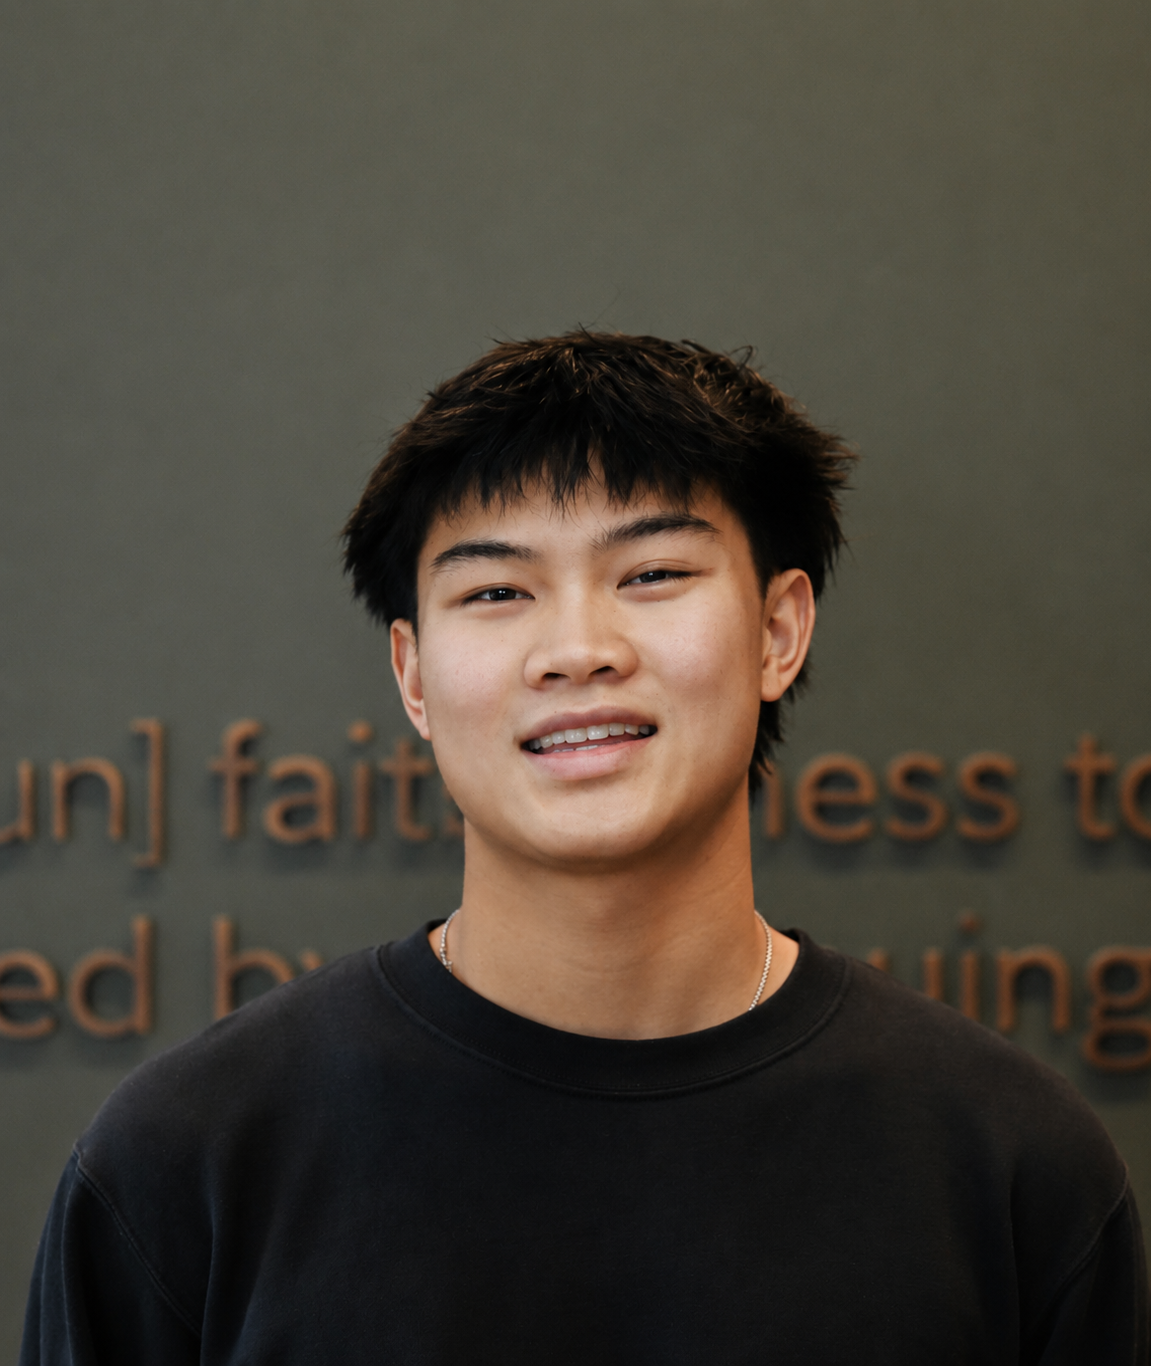
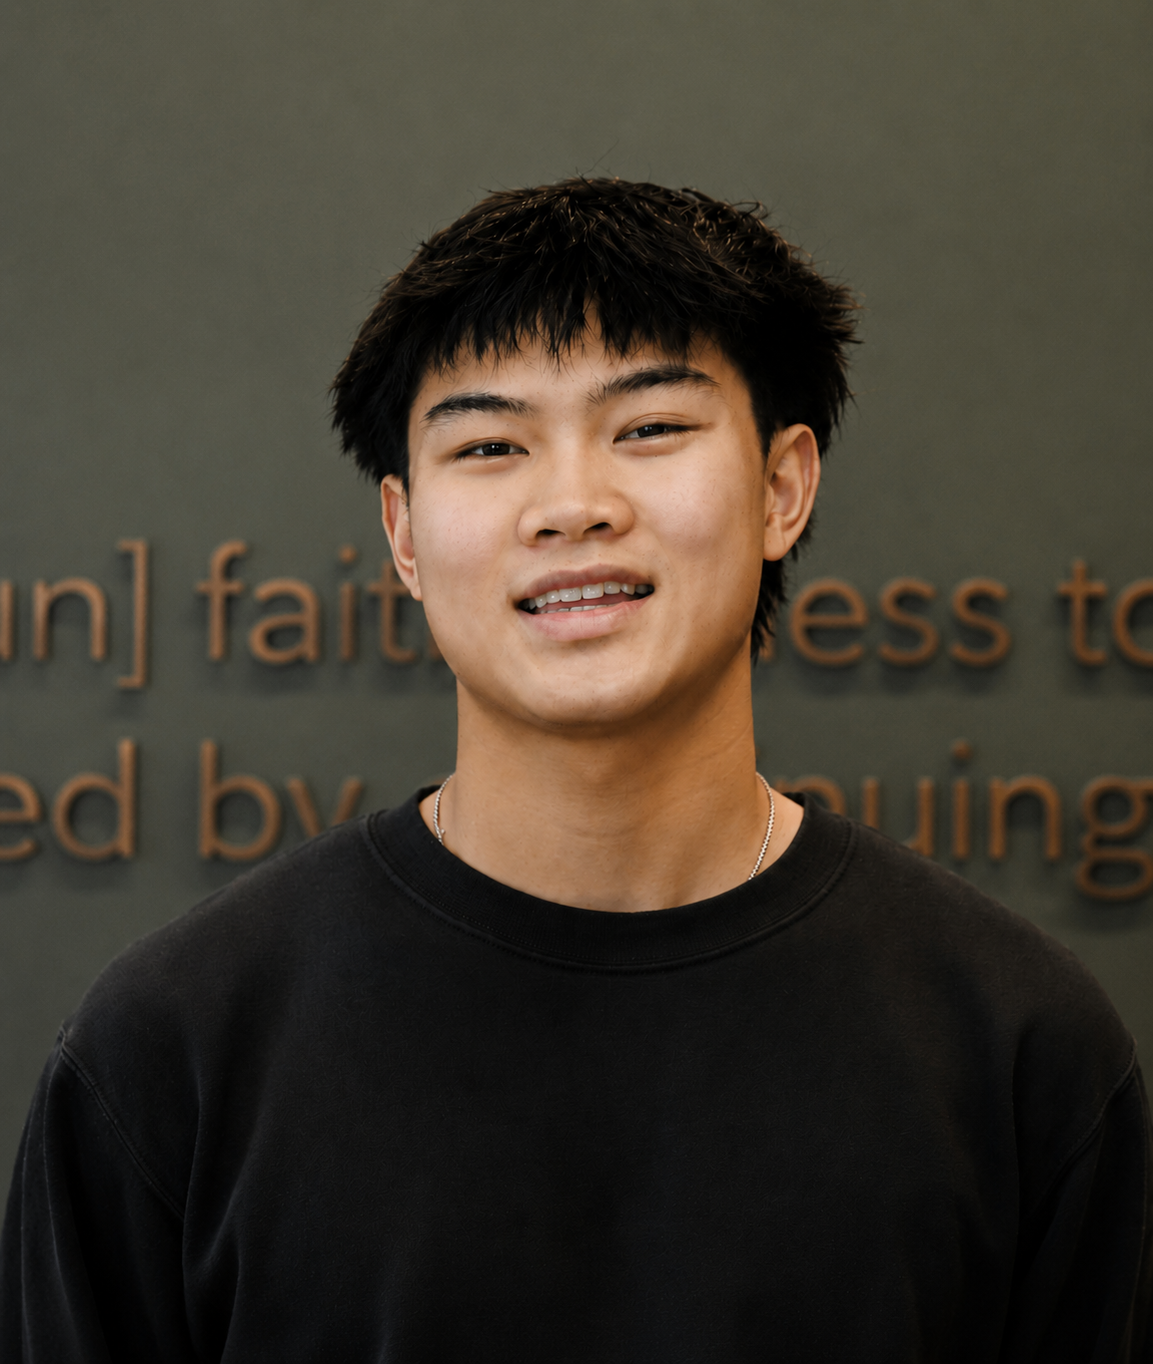
Update team card images

diff --git a/src/components/TeamDeck.tsx b/src/components/TeamDeck.tsx
@@ -7,28 +7,28 @@ const team = [
     name: 'Titus Er',
     role: 'General Partner · Co-Founder',
     detail: 'University of Virginia · President',
-    image: `${import.meta.env.BASE_URL}images/Titus-card.jpg`,
+    image: `${import.meta.env.BASE_URL}images/Titus.png`,
     linkedin: 'https://www.linkedin.com/in/titus-er-3b545a321/',
   },
   {
     name: 'Claire Mo',
     role: 'General Partner · Co-Founder',
     detail: 'Columbia University · Vice-President',
-    image: `${import.meta.env.BASE_URL}images/Claire-card.jpg`,
+    image: `${import.meta.env.BASE_URL}images/Claire.png`,
     linkedin: 'https://www.linkedin.com/in/claire-mo-3495343a8/',
   },
   {
     name: 'Thomas Duong',
     role: 'General Partner · Co-Founder',
     detail: 'University of Virginia · Treasurer',
-    image: `${import.meta.env.BASE_URL}images/Thomas-card.jpg`,
+    image: `${import.meta.env.BASE_URL}images/Thomas.png`,
     linkedin: 'https://www.linkedin.com/in/thomas-duong-5355963a8/',
   },
   {
     name: 'Kyle Li',
     role: 'General Partner · Co-Founder',
     detail: 'Columbia University · Secretary',
-    image: `${import.meta.env.BASE_URL}images/Kyle-card.jpg`,
+    image: `${import.meta.env.BASE_URL}images/Kyle.png`,
     linkedin: 'https://www.linkedin.com/in/kyle-li-869a1233a/',
   },
 ]

diff --git a/src/App.css b/src/App.css
@@ -372,7 +372,7 @@ body::after {
     bottom: calc(clamp(190px, 20vw, 320px) * -1.02);
     left: clamp(24px, 4vw, 72px);
     width: clamp(190px, 20vw, 320px);
-    aspect-ratio: 4 / 5;
+    aspect-ratio: 4 / 5.5;
     transform-style: preserve-3d;
 }
 
@@ -464,7 +464,7 @@ body::after {
 .team-card__portrait {
     grid-row: 1 / 3;
     width: 100%;
-    height: 72%;
+    height: 76%;
     overflow: hidden;
     background: #8095a4;
 }
@@ -472,17 +472,12 @@ body::after {
 .team-card img {
     display: block;
     width: 100%;
-    height: calc(100% + 20px);
+    height: 100%;
     object-fit: cover;
-    object-position: center 20%;
+    object-position: center top;
     filter: grayscale(1) contrast(1.06);
-    transform: translateY(-20px);
+    transform: none;
     transition: filter 280ms ease;
-}
-
-.team-deck:not(.is-animating) .team-card:hover img,
-.team-deck:not(.is-animating) .team-card:focus-visible img {
-    filter: grayscale(0) saturate(.9) contrast(1.04);
 }
 
 .team-card__copy {
@@ -490,9 +485,9 @@ body::after {
     right: 0;
     bottom: 0;
     left: 0;
-    min-height: 28%;
+    min-height: 24%;
     box-sizing: border-box;
-    padding: clamp(10px, 1vw, 16px) 0 0;
+    padding: clamp(14px, 1.3vw, 20px) 0 0;
     background: #f4f0e5;
 }
 
